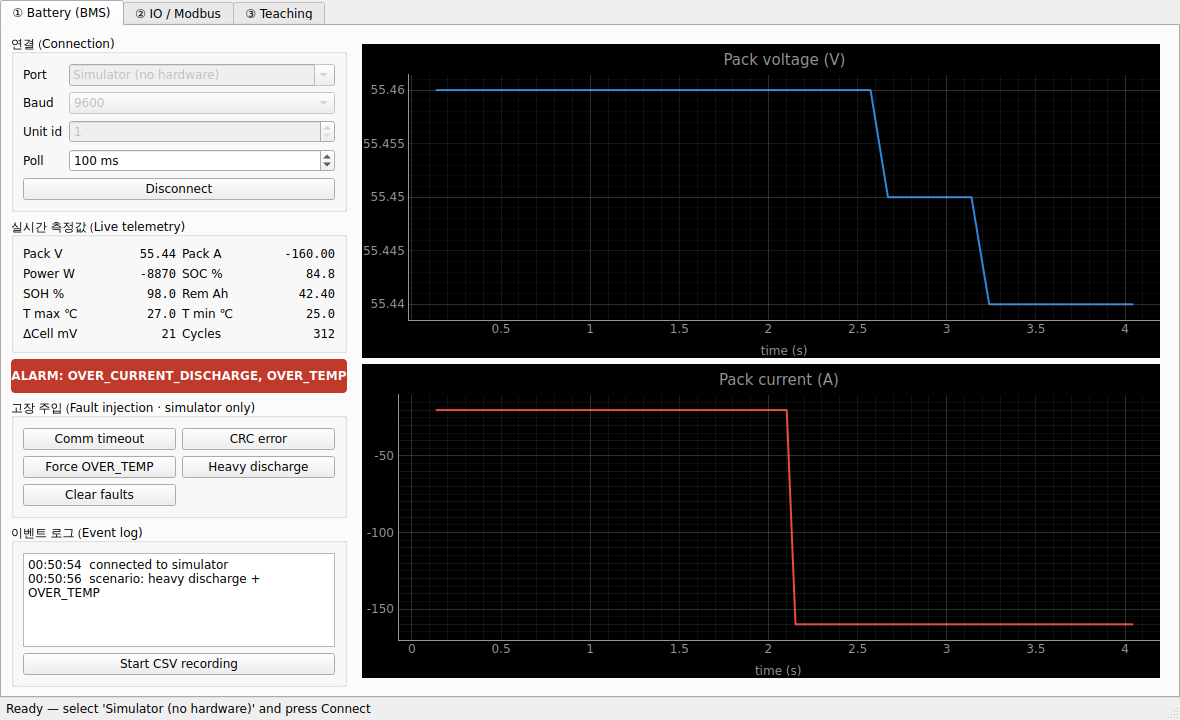
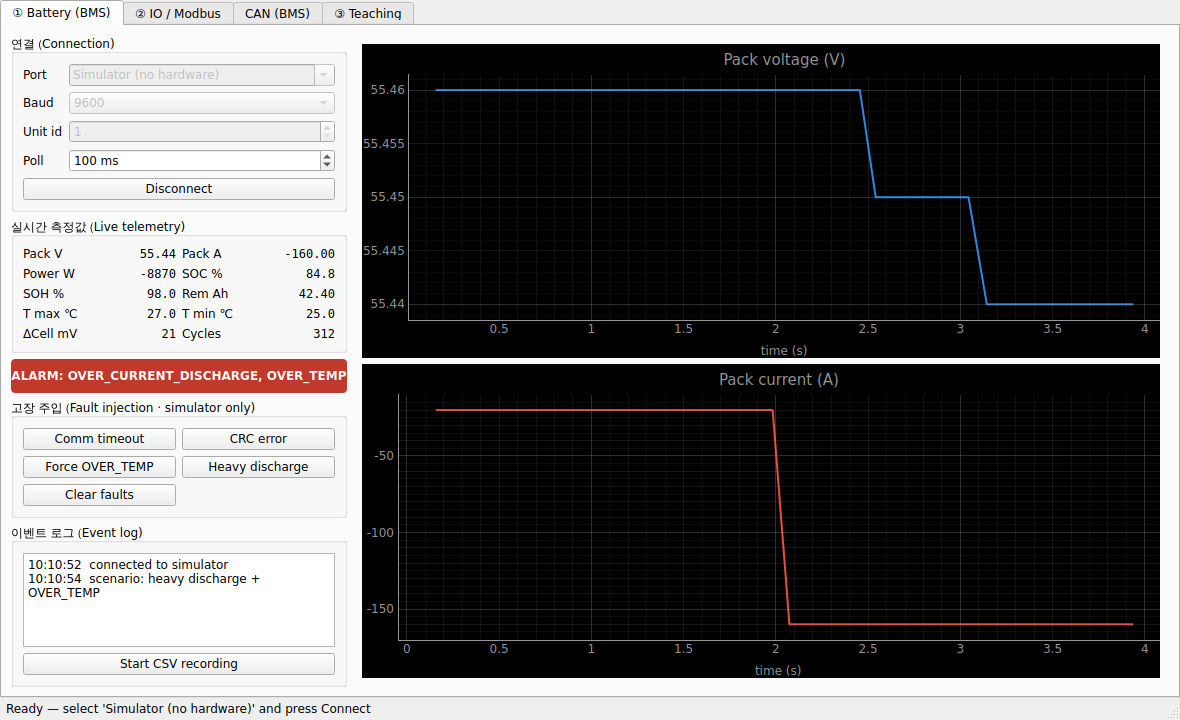
feat(ui): CAN BMS GUI tab
Adds a CAN tab to the desktop app so every communication module (battery,
IO, CAN) is reachable from the GUI.

- ui/can_view: connect to the CAN simulator (virtual bus) or a real python-can
  interface, live voltage/current trends, alarm banner, fault injection.
- main_window: wire the CAN tab in; shut it down on close.
- pyproject: python-can added to the gui extra.
- tests/docs: CAN GUI smoke test + docs/screenshot_can.png; README updated.

Claude-Session: https://claude.ai/code/session_01SMx3kMszBaXJdasZZp8uTo

diff --git a/src/fae_toolkit/ui/can_view.py b/src/fae_toolkit/ui/can_view.py
@@ -1,0 +1,289 @@
+"""CAN BMS test panel.
+
+Connects to the built-in CAN simulator over python-can's in-process ``virtual``
+bus (no hardware) or a real interface (e.g. socketcan, pcan), shows live
+telemetry and trends, and can inject faults against the simulator.
+"""
+
+from __future__ import annotations
+
+import time
+from collections import deque
+
+import can
+import pyqtgraph as pg
+from PySide6.QtCore import QMetaObject, Qt, QThread, Slot
+from PySide6.QtWidgets import (
+    QComboBox,
+    QFormLayout,
+    QGridLayout,
+    QGroupBox,
+    QHBoxLayout,
+    QLabel,
+    QLineEdit,
+    QPlainTextEdit,
+    QPushButton,
+    QSpinBox,
+    QVBoxLayout,
+    QWidget,
+)
+
+from fae_toolkit.protocols.bms.model import BatteryFlag
+from fae_toolkit.protocols.canbus import CanBmsClient
+from fae_toolkit.protocols.canbus.model import CanBmsState
+from fae_toolkit.sim.can_bms import CanBmsSimulator
+from fae_toolkit.ui.worker import PollWorker
+
+_MAXLEN = 600
+
+
+class CanView(QWidget):
+    """Self-contained CAN BMS test view."""
+
+    def __init__(self, parent: QWidget | None = None) -> None:
+        super().__init__(parent)
+        self._sim: CanBmsSimulator | None = None
+        self._app_bus: can.BusABC | None = None
+        self._dev_bus: can.BusABC | None = None
+        self._client: CanBmsClient | None = None
+        self._thread: QThread | None = None
+        self._worker: PollWorker | None = None
+        self._connected = False
+        self._t0 = 0.0
+        self._t: deque[float] = deque(maxlen=_MAXLEN)
+        self._v: deque[float] = deque(maxlen=_MAXLEN)
+        self._i: deque[float] = deque(maxlen=_MAXLEN)
+        self._values: dict[str, QLabel] = {}
+        self._build_ui()
+        self._update_controls()
+
+    # --- UI construction -------------------------------------------------- #
+    def _build_ui(self) -> None:
+        root = QHBoxLayout(self)
+        left = QVBoxLayout()
+        left.addWidget(self._build_connection_group())
+        left.addWidget(self._build_readout_group())
+        left.addWidget(self._build_alarm_banner())
+        left.addWidget(self._build_fault_group())
+        left.addWidget(self._build_log_group(), stretch=1)
+        root.addLayout(left, stretch=0)
+        root.addWidget(self._build_plots(), stretch=1)
+
+    def _build_connection_group(self) -> QGroupBox:
+        box = QGroupBox("연결 (Connection)")
+        form = QFormLayout(box)
+        self.iface_combo = QComboBox()
+        self.iface_combo.addItems(["virtual", "socketcan", "pcan", "kvaser"])
+        self.iface_combo.setEditable(True)
+        self.channel_edit = QLineEdit("fae_gui")
+        self.interval_spin = QSpinBox()
+        self.interval_spin.setRange(50, 5000)
+        self.interval_spin.setSingleStep(50)
+        self.interval_spin.setValue(300)
+        self.interval_spin.setSuffix(" ms")
+        self.connect_btn = QPushButton("Connect")
+        self.connect_btn.clicked.connect(self._toggle_connection)
+        form.addRow("Interface", self.iface_combo)
+        form.addRow("Channel", self.channel_edit)
+        form.addRow("Poll", self.interval_spin)
+        form.addRow(self.connect_btn)
+        return box
+
+    def _build_readout_group(self) -> QGroupBox:
+        box = QGroupBox("실시간 측정값 (Live telemetry)")
+        grid = QGridLayout(box)
+        fields = [
+            ("voltage", "Pack V"),
+            ("current", "Pack A"),
+            ("power", "Power W"),
+            ("soc", "SOC %"),
+            ("max_temp", "T max ℃"),
+        ]
+        for idx, (key, label) in enumerate(fields):
+            grid.addWidget(QLabel(label), idx, 0)
+            value = QLabel("—")
+            value.setAlignment(Qt.AlignmentFlag.AlignRight | Qt.AlignmentFlag.AlignVCenter)
+            grid.addWidget(value, idx, 1)
+            self._values[key] = value
+        return box
+
+    def _build_alarm_banner(self) -> QLabel:
+        self.alarm_banner = QLabel("DISCONNECTED")
+        self.alarm_banner.setAlignment(Qt.AlignmentFlag.AlignCenter)
+        self.alarm_banner.setMinimumHeight(34)
+        self._set_banner("DISCONNECTED", "#777")
+        return self.alarm_banner
+
+    def _build_fault_group(self) -> QGroupBox:
+        box = QGroupBox("고장 주입 (Fault injection · simulator only)")
+        layout = QGridLayout(box)
+        self._fault_buttons: list[QPushButton] = []
+        specs = [
+            ("Heavy discharge", lambda: self._sim and self._sim.set_load_current(-160.0)),
+            (
+                "Force OVER_TEMP",
+                lambda: self._sim and self._sim.force_warning(BatteryFlag.OVER_TEMP),
+            ),
+            ("Clear faults", self._clear_faults),
+        ]
+        for idx, (label, fn) in enumerate(specs):
+            btn = QPushButton(label)
+            btn.clicked.connect(fn)
+            layout.addWidget(btn, idx // 2, idx % 2)
+            self._fault_buttons.append(btn)
+        return box
+
+    def _build_log_group(self) -> QGroupBox:
+        box = QGroupBox("이벤트 로그 (Event log)")
+        layout = QVBoxLayout(box)
+        self.log_view = QPlainTextEdit()
+        self.log_view.setReadOnly(True)
+        self.log_view.setMaximumBlockCount(500)
+        layout.addWidget(self.log_view)
+        return box
+
+    def _build_plots(self) -> QWidget:
+        pg.setConfigOptions(antialias=True)
+        container = QWidget()
+        layout = QVBoxLayout(container)
+        self.plot_v = pg.PlotWidget(title="Pack voltage (V)")
+        self.plot_v.showGrid(x=True, y=True, alpha=0.3)
+        self.plot_v.setLabel("bottom", "time", "s")
+        self.curve_v = self.plot_v.plot(pen=pg.mkPen("#2e86de", width=2))
+        self.plot_i = pg.PlotWidget(title="Pack current (A)")
+        self.plot_i.showGrid(x=True, y=True, alpha=0.3)
+        self.plot_i.setLabel("bottom", "time", "s")
+        self.plot_i.setXLink(self.plot_v)
+        self.curve_i = self.plot_i.plot(pen=pg.mkPen("#e74c3c", width=2))
+        layout.addWidget(self.plot_v)
+        layout.addWidget(self.plot_i)
+        return container
+
+    # --- connection lifecycle -------------------------------------------- #
+    def _toggle_connection(self) -> None:
+        self._disconnect() if self._connected else self._connect()
+
+    def _connect(self) -> None:
+        interface = self.iface_combo.currentText().strip() or "virtual"
+        channel = self.channel_edit.text().strip() or "fae_gui"
+        try:
+            if interface == "virtual":
+                self._dev_bus = can.Bus(
+                    interface="virtual", channel=channel, receive_own_messages=False
+                )
+                self._app_bus = can.Bus(
+                    interface="virtual", channel=channel, receive_own_messages=False
+                )
+                self._sim = CanBmsSimulator(self._dev_bus)
+                self._sim.start()
+            else:
+                self._dev_bus = None
+                self._sim = None
+                self._app_bus = can.Bus(interface=interface, channel=channel)
+        except Exception as exc:
+            self._log(f"connect failed: {exc}")
+            self._cleanup_connection()
+            return
+
+        self._client = CanBmsClient(self._app_bus, timeout=1.0)
+        self._thread = QThread(self)
+        self._worker = PollWorker(self._client.read_state, interval_ms=self.interval_spin.value())
+        self._worker.moveToThread(self._thread)
+        self._thread.started.connect(self._worker.start)
+        self._thread.finished.connect(self._worker.deleteLater)
+        self._worker.result.connect(self._on_state)
+        self._worker.error.connect(self._on_error)
+        self._thread.start()
+
+        self._connected = True
+        self._t0 = time.monotonic()
+        self._t.clear()
+        self._v.clear()
+        self._i.clear()
+        self._log(f"connected to {interface}:{channel}")
+        self._update_controls()
+
+    def _disconnect(self) -> None:
+        if self._worker is not None and self._thread is not None and self._thread.isRunning():
+            QMetaObject.invokeMethod(
+                self._worker, "stop", Qt.ConnectionType.BlockingQueuedConnection
+            )
+        if self._thread is not None:
+            self._thread.quit()
+            self._thread.wait(2000)
+        self._cleanup_connection()
+        self._connected = False
+        self._set_banner("DISCONNECTED", "#777")
+        self._log("disconnected")
+        self._update_controls()
+
+    def _cleanup_connection(self) -> None:
+        if self._sim is not None:
+            self._sim.stop()
+            self._sim = None
+        for bus_attr in ("_app_bus", "_dev_bus"):
+            bus = getattr(self, bus_attr)
+            if bus is not None:
+                try:
+                    bus.shutdown()
+                except Exception:
+                    pass
+                setattr(self, bus_attr, None)
+        self._worker = None
+        self._thread = None
+        self._client = None
+
+    # --- telemetry handling ---------------------------------------------- #
+    @Slot(object)
+    def _on_state(self, state: CanBmsState) -> None:
+        v = self._values
+        v["voltage"].setText(f"{state.voltage:6.2f}")
+        v["current"].setText(f"{state.current:+7.2f}")
+        v["power"].setText(f"{state.power:+7.0f}")
+        v["soc"].setText(f"{state.soc:5.1f}")
+        v["max_temp"].setText(f"{state.max_temp:5.1f}")
+
+        if state.has_alarm:
+            self._set_banner("ALARM: " + ", ".join(state.active_flags()), "#c0392b")
+        else:
+            self._set_banner("NORMAL", "#27ae60")
+
+        t = time.monotonic() - self._t0
+        self._t.append(t)
+        self._v.append(state.voltage)
+        self._i.append(state.current)
+        self.curve_v.setData(list(self._t), list(self._v))
+        self.curve_i.setData(list(self._t), list(self._i))
+
+    @Slot(str)
+    def _on_error(self, message: str) -> None:
+        self._set_banner(f"CAN ERROR — {message}", "#e67e22")
+        self._log(f"[CAN] {message}")
+
+    def _clear_faults(self) -> None:
+        if self._sim is not None:
+            self._sim.clear_faults()
+            self._sim.set_load_current(-20.0)
+            self._log("faults cleared, load reset to -20 A")
+
+    # --- helpers ---------------------------------------------------------- #
+    def _set_banner(self, text: str, color: str) -> None:
+        self.alarm_banner.setText(text)
+        self.alarm_banner.setStyleSheet(
+            f"background:{color}; color:white; font-weight:bold; border-radius:4px;"
+        )
+
+    def _log(self, message: str) -> None:
+        self.log_view.appendPlainText(f"{time.strftime('%H:%M:%S')}  {message}")
+
+    def _update_controls(self) -> None:
+        self.connect_btn.setText("Disconnect" if self._connected else "Connect")
+        for w in (self.iface_combo, self.channel_edit):
+            w.setEnabled(not self._connected)
+        is_sim = self._connected and self._sim is not None
+        for btn in self._fault_buttons:
+            btn.setEnabled(is_sim)
+
+    def shutdown(self) -> None:
+        if self._connected:
+            self._disconnect()

diff --git a/docs/capture_screenshot.py b/docs/capture_screenshot.py
@@ -63,8 +63,26 @@ def _capture_io(app: QApplication, window: MainWindow, tabs, out: str) -> None:
     view.shutdown()
 
 
-def _capture_teaching(app: QApplication, window: MainWindow, tabs, out: str) -> None:
+def _capture_can(app: QApplication, window: MainWindow, tabs, out: str) -> None:
     tabs.setCurrentIndex(2)
+    view = window.can_view
+    view.iface_combo.setCurrentText("virtual")
+    view.channel_edit.setText("fae_shot")
+    view.interval_spin.setValue(100)
+    view._connect()
+    _pump(app, 1.5)
+    if view._sim is not None:
+        view._sim.set_load_current(-160.0)
+        view._sim.force_warning(BatteryFlag.OVER_TEMP)
+        view._log("scenario: heavy discharge + OVER_TEMP")
+    _pump(app, 1.5)
+    ok = window.grab().save(out, "PNG")
+    print(f"can: saved={ok} -> {out}")
+    view.shutdown()
+
+
+def _capture_teaching(app: QApplication, window: MainWindow, tabs, out: str) -> None:
+    tabs.setCurrentIndex(3)
     view = window.teaching_view
     view.table.selectRow(4)  # highlight ST_A_LOAD on the map
     view._validate()
@@ -81,6 +99,7 @@ def main() -> int:
     tabs = window.centralWidget()
     _capture_battery(app, window, "docs/screenshot_battery.png")
     _capture_io(app, window, tabs, "docs/screenshot_io.png")
+    _capture_can(app, window, tabs, "docs/screenshot_can.png")
     _capture_teaching(app, window, tabs, "docs/screenshot_teaching.png")
     return 0
 

diff --git a/tests/test_gui_smoke.py b/tests/test_gui_smoke.py
@@ -65,6 +65,23 @@ def test_io_view_updates_against_simulator(qapp):
     assert not view._connected
 
 
+def test_can_view_updates_against_simulator(qapp):
+    window = MainWindow()
+    view = window.can_view
+    view.iface_combo.setCurrentText("virtual")
+    view.channel_edit.setText("fae_smoke")
+    view.interval_spin.setValue(100)
+    view._connect()
+    assert view._connected
+
+    _pump_until(qapp, lambda: view._values["voltage"].text() != "—")
+
+    assert view._values["voltage"].text() != "—"
+
+    view.shutdown()
+    assert not view._connected
+
+
 def test_teaching_view_loads_and_validates(qapp):
     window = MainWindow()
     view = window.teaching_view

diff --git a/src/fae_toolkit/ui/main_window.py b/src/fae_toolkit/ui/main_window.py
@@ -7,6 +7,7 @@ from PySide6.QtWidgets import QLabel, QMainWindow, QTabWidget, QWidget
 
 from fae_toolkit import __version__
 from fae_toolkit.ui.battery_view import BatteryView
+from fae_toolkit.ui.can_view import CanView
 from fae_toolkit.ui.io_view import IoView
 from fae_toolkit.ui.teaching_view import TeachingView
 
@@ -27,9 +28,11 @@ class MainWindow(QMainWindow):
         tabs = QTabWidget()
         self.battery_view = BatteryView()
         self.io_view = IoView()
+        self.can_view = CanView()
         self.teaching_view = TeachingView()
         tabs.addTab(self.battery_view, "① Battery (BMS)")
         tabs.addTab(self.io_view, "② IO / Modbus")
+        tabs.addTab(self.can_view, "CAN (BMS)")
         tabs.addTab(self.teaching_view, "③ Teaching")
         self.setCentralWidget(tabs)
         self.statusBar().showMessage("Ready — select 'Simulator (no hardware)' and press Connect")
@@ -37,5 +40,6 @@ class MainWindow(QMainWindow):
     def closeEvent(self, event) -> None:  # noqa: N802 (Qt override)
         self.battery_view.shutdown()
         self.io_view.shutdown()
+        self.can_view.shutdown()
         self.teaching_view.shutdown()
         super().closeEvent(event)

diff --git a/README.md b/README.md
@@ -27,6 +27,11 @@
 > ② IO/Modbus 통신 테스트 모듈 — 디지털 입력(센서/PIO)·출력(액추에이터/시그널타워)·아날로그를
 > 진단하고, **인터락**을 시연한 화면(E-STOP 트립 → 모션 출력 거부, 빨간 시그널). 하드웨어 없이 실행됩니다.
 
+![CAN BMS test module](docs/screenshot_can.png)
+
+> CAN BMS 테스트 모듈 — python-can 가상 버스로 주기 브로드캐스트를 수신·디코딩하고,
+> 전압/전류 트렌드와 알람을 표시한 화면(시리얼이 아닌 CAN 버스 경험).
+
 ![Teaching point management module](docs/screenshot_teaching.png)
 
 > ③ 티칭 포인트 관리(심화) — 노드/루트를 2D 맵으로 시각화하고, 포인트(Load/Unload/Charge 등)를